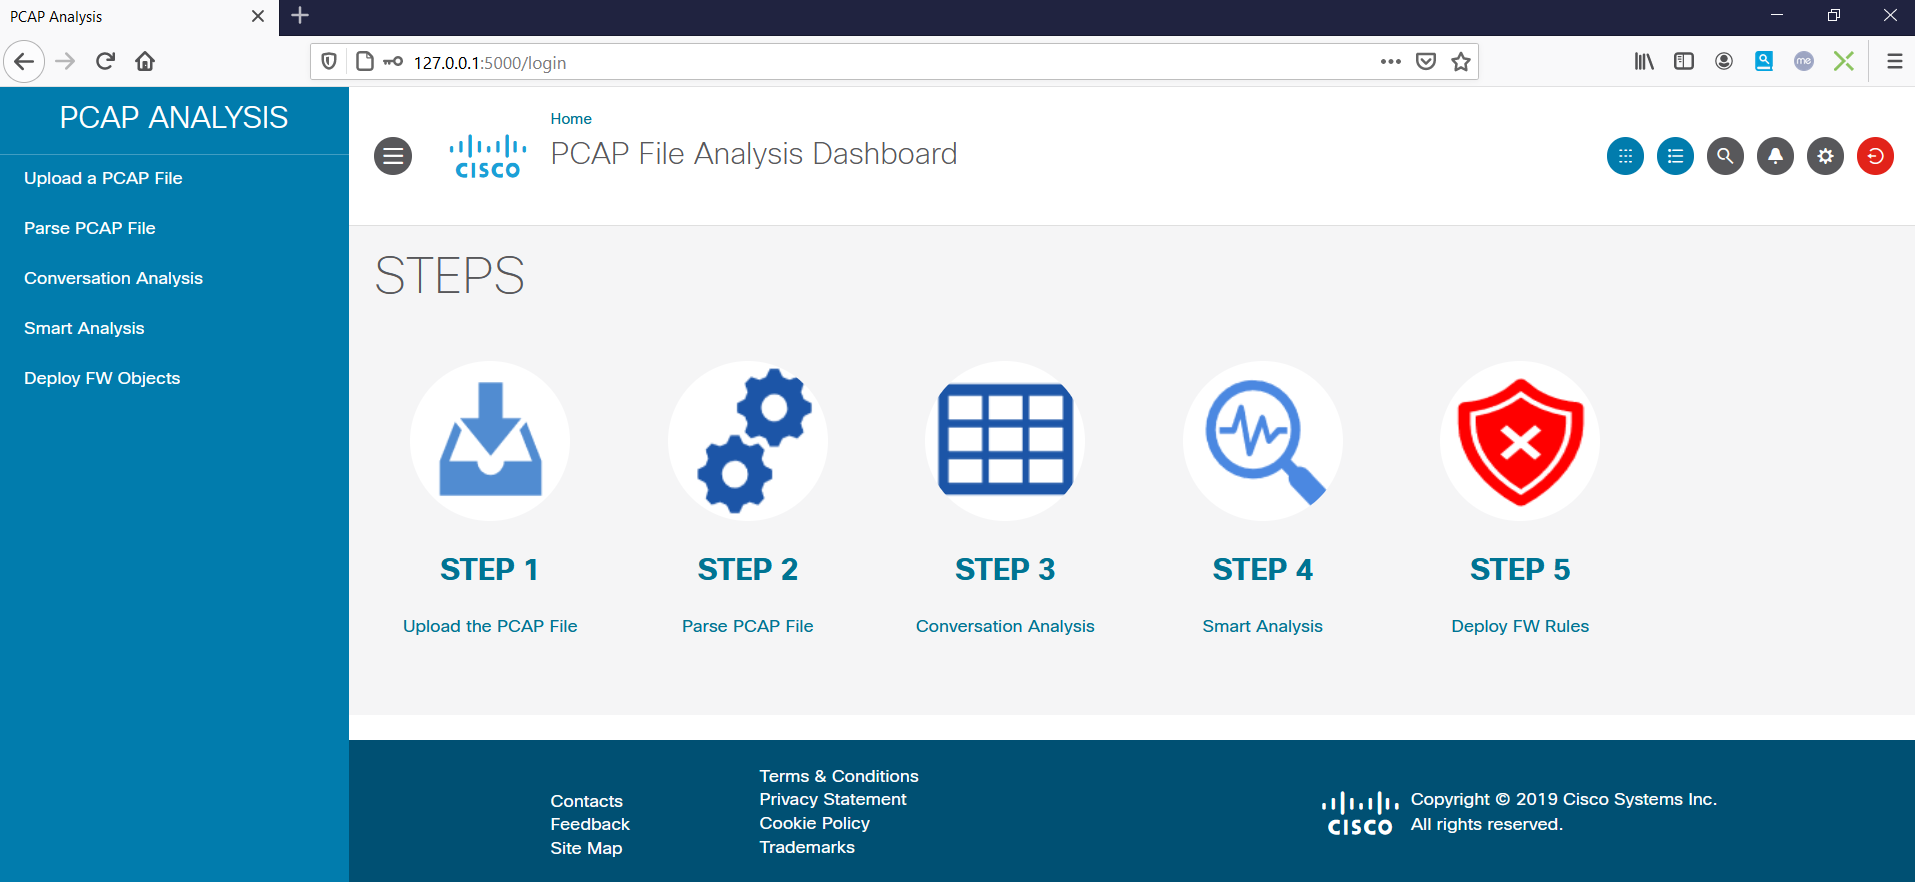
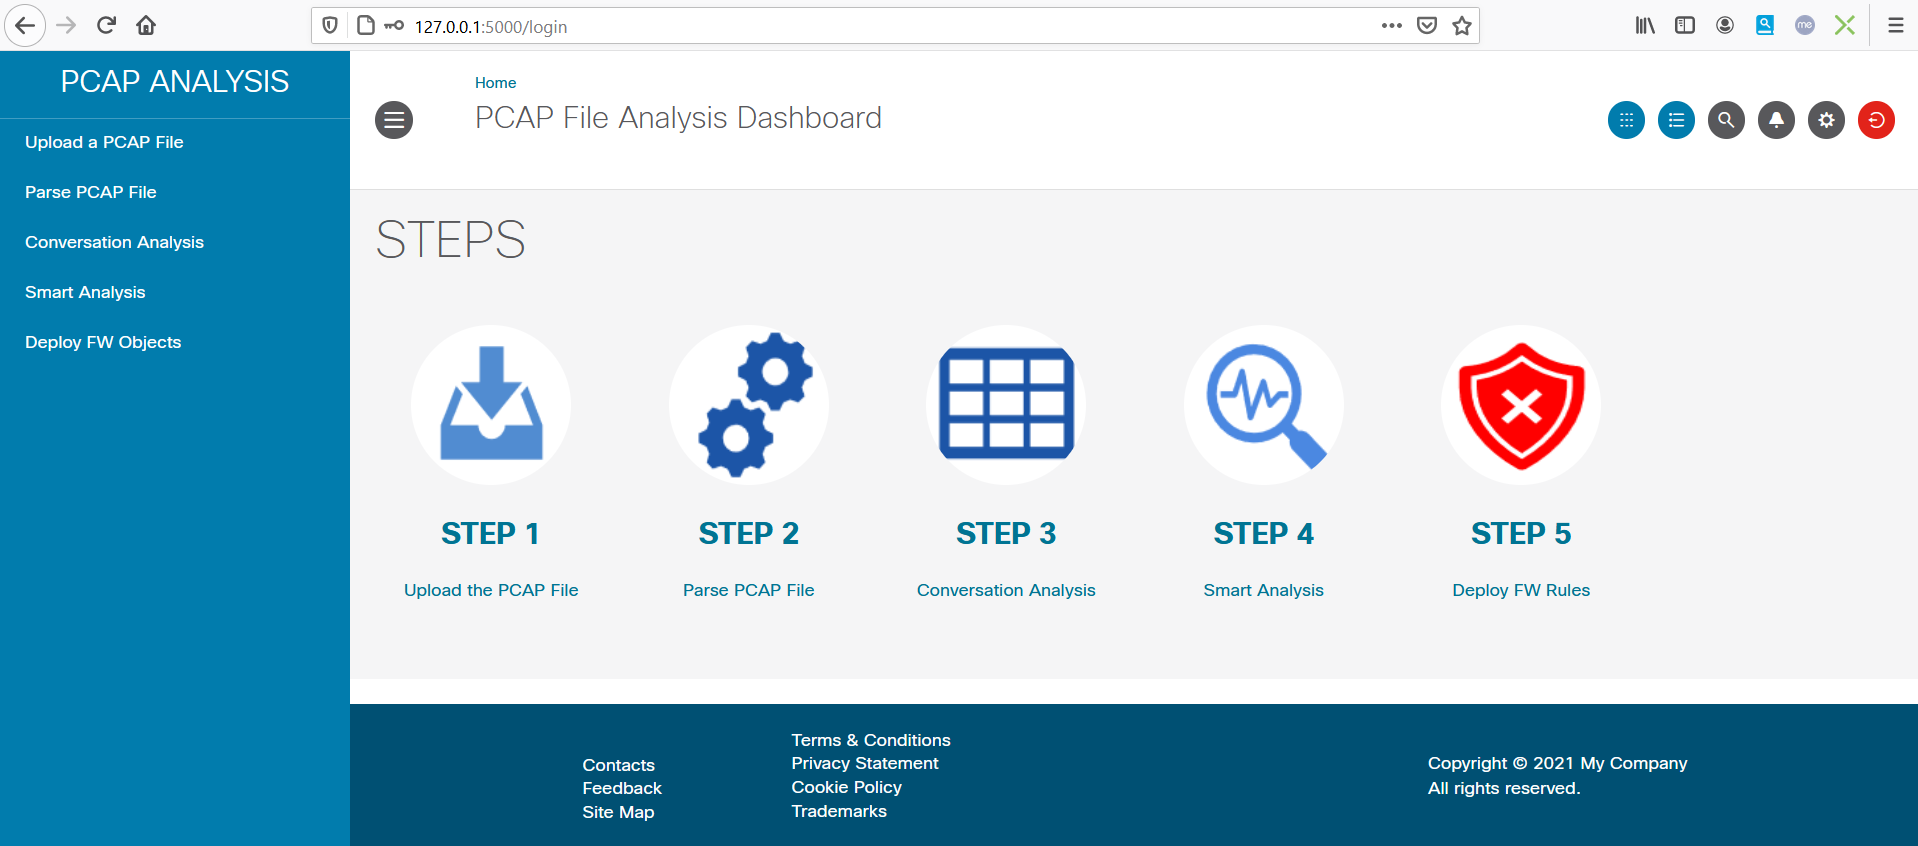
documentation_update

diff --git a/flask_pcap_parser/templates/analysis.html b/flask_pcap_parser/templates/analysis.html
@@ -17,7 +17,7 @@
                 <header class="header header--tall">
                     <div class="header-bar container">
                         <a href="javascript:;" class="header-bar__logo">
-                            <span class="icon-cisco"></span>
+                            <span class="icon-cisco0"></span>
                         </a>
                         <div class="header-bar__main">
                             <div class="header-breadcrumbs">
@@ -104,11 +104,11 @@
                     <div class="footer__legal">
                         <div class="footer__logo">
                             <a href="http://www.cisco.com" target="_blank">
-                                <span class="icon-cisco"></span>
+                                <span class="icon-cisco0"></span>
                             </a>
                         </div>
                         <div class="footer__copyright">
-                            <div>Copyright &copy; 2017 Cisco Systems Inc.</div>
+                            <div>Copyright &copy; 2021 My Company</div>
                             <div>All rights reserved.</div>
                         </div>
                     </div>

diff --git a/flask_pcap_parser/templates/search.html b/flask_pcap_parser/templates/search.html
@@ -17,7 +17,7 @@
                 <header class="header header--tall">
                     <div class="header-bar container">
                         <a href="javascript:;" class="header-bar__logo">
-                            <span class="icon-cisco"></span>
+                            <span class="icon-cisco0"></span>
                         </a>
                         <div class="header-bar__main">
                             <div class="header-breadcrumbs">
@@ -157,11 +157,11 @@
                     <div class="footer__legal">
                         <div class="footer__logo">
                             <a href="http://www.cisco.com" target="_blank">
-                                <span class="icon-cisco"></span>
+                                <span class="icon-cisco0"></span>
                             </a>
                         </div>
                         <div class="footer__copyright">
-                            <div>Copyright &copy; 2017 Cisco Systems Inc.</div>
+                            <div>Copyright &copy; 2021 My Company</div>
                             <div>All rights reserved.</div>
                         </div>
                     </div>

diff --git a/flask_pcap_parser/templates/smart_analysis-3.html b/flask_pcap_parser/templates/smart_analysis-3.html
@@ -29,7 +29,7 @@
                 <header class="header header--tall">
                     <div class="header-bar container">
                         <a href="javascript:;" class="header-bar__logo">
-                            <span class="icon-cisco"></span>
+                            <span class="icon-cisco0"></span>
                         </a>
                         <div class="header-bar__main">
                             <div class="header-breadcrumbs">
@@ -203,11 +203,11 @@
                     <div class="footer__legal">
                         <div class="footer__logo">
                             <a href="http://www.cisco.com" target="_blank">
-                                <span class="icon-cisco"></span>
+                                <span class="icon-cisco0"></span>
                             </a>
                         </div>
                         <div class="footer__copyright">
-                            <div>Copyright &copy; 2021 Cisco Systems Inc.</div>
+                            <div>Copyright &copy; 2021 My Company</div>
                             <div>All rights reserved.</div>
                         </div>
                     </div>

diff --git a/flask_pcap_parser/templates/smart_analysis-3b.html b/flask_pcap_parser/templates/smart_analysis-3b.html
@@ -29,7 +29,7 @@
                 <header class="header header--tall">
                     <div class="header-bar container">
                         <a href="javascript:;" class="header-bar__logo">
-                            <span class="icon-cisco"></span>
+                            <span class="icon-cisco0"></span>
                         </a>
                         <div class="header-bar__main">
                             <div class="header-breadcrumbs">
@@ -123,11 +123,11 @@
                     <div class="footer__legal">
                         <div class="footer__logo">
                             <a href="http://www.cisco.com" target="_blank">
-                                <span class="icon-cisco"></span>
+                                <span class="icon-cisco0"></span>
                             </a>
                         </div>
                         <div class="footer__copyright">
-                            <div>Copyright &copy; 2021 Cisco Systems Inc.</div>
+                            <div>Copyright &copy; 2021 My Company</div>
                             <div>All rights reserved.</div>
                         </div>
                     </div>

diff --git a/flask_pcap_parser/templates/delete-2.html b/flask_pcap_parser/templates/delete-2.html
@@ -17,7 +17,7 @@
                 <header class="header header--tall">
                     <div class="header-bar container">
                         <a href="javascript:;" class="header-bar__logo">
-                            <span class="icon-cisco"></span>
+                            <span class="icon-cisco0"></span>
                         </a>
                         <div class="header-bar__main">
                             <div class="header-breadcrumbs">
@@ -81,11 +81,11 @@
                     <div class="footer__legal">
                         <div class="footer__logo">
                             <a href="http://www.cisco.com" target="_blank">
-                                <span class="icon-cisco"></span>
+                                <span class="icon-cisco0"></span>
                             </a>
                         </div>
                         <div class="footer__copyright">
-                            <div>Copyright &copy; 2017 Cisco Systems Inc.</div>
+                            <div>Copyright &copy; 2021 My Company</div>
                             <div>All rights reserved.</div>
                         </div>
                     </div>

diff --git a/flask_pcap_parser/templates/delete.html b/flask_pcap_parser/templates/delete.html
@@ -17,7 +17,7 @@
                 <header class="header header--tall">
                     <div class="header-bar container">
                         <a href="javascript:;" class="header-bar__logo">
-                            <span class="icon-cisco"></span>
+                            <span class="icon-cisco0"></span>
                         </a>
                         <div class="header-bar__main">
                             <div class="header-breadcrumbs">
@@ -78,11 +78,11 @@
                     <div class="footer__legal">
                         <div class="footer__logo">
                             <a href="http://www.cisco.com" target="_blank">
-                                <span class="icon-cisco"></span>
+                                <span class="icon-cisco0"></span>
                             </a>
                         </div>
                         <div class="footer__copyright">
-                            <div>Copyright &copy; 2017 Cisco Systems Inc.</div>
+                            <div>Copyright &copy; 2021 My Company</div>
                             <div>All rights reserved.</div>
                         </div>
                     </div>

diff --git a/flask_pcap_parser/templates/graphit.html b/flask_pcap_parser/templates/graphit.html
@@ -17,7 +17,7 @@
                 <header class="header header--tall">
                     <div class="header-bar container">
                         <a href="javascript:;" class="header-bar__logo">
-                            <span class="icon-cisco"></span>
+                            <span class="icon-cisco0"></span>
                         </a>
                         <div class="header-bar__main">
                             <div class="header-breadcrumbs">
@@ -74,11 +74,11 @@
                     <div class="footer__legal">
                         <div class="footer__logo">
                             <a href="http://www.cisco.com" target="_blank">
-                                <span class="icon-cisco"></span>
+                                <span class="icon-cisco0"></span>
                             </a>
                         </div>
                         <div class="footer__copyright">
-                            <div>Copyright &copy; 2021 Cisco Systems Inc.</div>
+                            <div>Copyright &copy; 2021 My Company</div>
                             <div>All rights reserved.</div>
                         </div>
                     </div>

diff --git a/flask_pcap_parser/templates/parse_base-2.html b/flask_pcap_parser/templates/parse_base-2.html
@@ -17,7 +17,7 @@
                 <header class="header header--tall">
                     <div class="header-bar container">
                         <a href="javascript:;" class="header-bar__logo">
-                            <span class="icon-cisco"></span>
+                            <span class="icon-cisco0"></span>
                         </a>
                         <div class="header-bar__main">
                             <div class="header-breadcrumbs">
@@ -80,11 +80,11 @@
                     <div class="footer__legal">
                         <div class="footer__logo">
                             <a href="http://www.cisco.com" target="_blank">
-                                <span class="icon-cisco"></span>
+                                <span class="icon-cisco0"></span>
                             </a>
                         </div>
                         <div class="footer__copyright">
-                            <div>Copyright &copy; 2017 Cisco Systems Inc.</div>
+                            <div>Copyright &copy; 2021 My Company</div>
                             <div>All rights reserved.</div>
                         </div>
                     </div>

diff --git a/flask_pcap_parser/templates/parse_base.html b/flask_pcap_parser/templates/parse_base.html
@@ -17,7 +17,7 @@
                 <header class="header header--tall">
                     <div class="header-bar container">
                         <a href="javascript:;" class="header-bar__logo">
-                            <span class="icon-cisco"></span>
+                            <span class="icon-cisco0"></span>
                         </a>
                         <div class="header-bar__main">
                             <div class="header-breadcrumbs">
@@ -78,11 +78,11 @@
                     <div class="footer__legal">
                         <div class="footer__logo">
                             <a href="http://www.cisco.com" target="_blank">
-                                <span class="icon-cisco"></span>
+                                <span class="icon-cisco0"></span>
                             </a>
                         </div>
                         <div class="footer__copyright">
-                            <div>Copyright &copy; 2017 Cisco Systems Inc.</div>
+                            <div>Copyright &copy; 2021 My Company</div>
                             <div>All rights reserved.</div>
                         </div>
                     </div>

diff --git a/flask_pcap_parser/templates/smart_analysis-2.html b/flask_pcap_parser/templates/smart_analysis-2.html
@@ -17,7 +17,7 @@
                 <header class="header header--tall">
                     <div class="header-bar container">
                         <a href="javascript:;" class="header-bar__logo">
-                            <span class="icon-cisco"></span>
+                            <span class="icon-cisco0"></span>
                         </a>
                         <div class="header-bar__main">
                             <div class="header-breadcrumbs">
@@ -87,11 +87,11 @@
                     <div class="footer__legal">
                         <div class="footer__logo">
                             <a href="http://www.cisco.com" target="_blank">
-                                <span class="icon-cisco"></span>
+                                <span class="icon-cisco0"></span>
                             </a>
                         </div>
                         <div class="footer__copyright">
-                            <div>Copyright &copy; 2017 Cisco Systems Inc.</div>
+                            <div>Copyright &copy; 2021 My Company</div>
                             <div>All rights reserved.</div>
                         </div>
                     </div>

diff --git a/flask_pcap_parser/templates/smart_analysis.html b/flask_pcap_parser/templates/smart_analysis.html
@@ -17,7 +17,7 @@
                 <header class="header header--tall">
                     <div class="header-bar container">
                         <a href="javascript:;" class="header-bar__logo">
-                            <span class="icon-cisco"></span>
+                            <span class="icon-cisco0"></span>
                         </a>
                         <div class="header-bar__main">
                             <div class="header-breadcrumbs">
@@ -96,11 +96,11 @@
                     <div class="footer__legal">
                         <div class="footer__logo">
                             <a href="http://www.cisco.com" target="_blank">
-                                <span class="icon-cisco"></span>
+                                <span class="icon-cisco0"></span>
                             </a>
                         </div>
                         <div class="footer__copyright">
-                            <div>Copyright &copy; 2017 Cisco Systems Inc.</div>
+                            <div>Copyright &copy; 2021 My Company</div>
                             <div>All rights reserved.</div>
                         </div>
                     </div>

diff --git a/flask_pcap_parser/templates/upload_base-2.html b/flask_pcap_parser/templates/upload_base-2.html
@@ -17,7 +17,7 @@
                 <header class="header header--tall">
                     <div class="header-bar container">
                         <a href="javascript:;" class="header-bar__logo">
-                            <span class="icon-cisco"></span>
+                            <span class="icon-cisco0"></span>
                         </a>
                         <div class="header-bar__main">
                             <div class="header-breadcrumbs">
@@ -86,11 +86,11 @@
                     <div class="footer__legal">
                         <div class="footer__logo">
                             <a href="http://www.cisco.com" target="_blank">
-                                <span class="icon-cisco"></span>
+                                <span class="icon-cisco0"></span>
                             </a>
                         </div>
                         <div class="footer__copyright">
-                            <div>Copyright &copy; 2017 Cisco Systems Inc.</div>
+                            <div>Copyright &copy; 2021 My Company</div>
                             <div>All rights reserved.</div>
                         </div>
                     </div>
